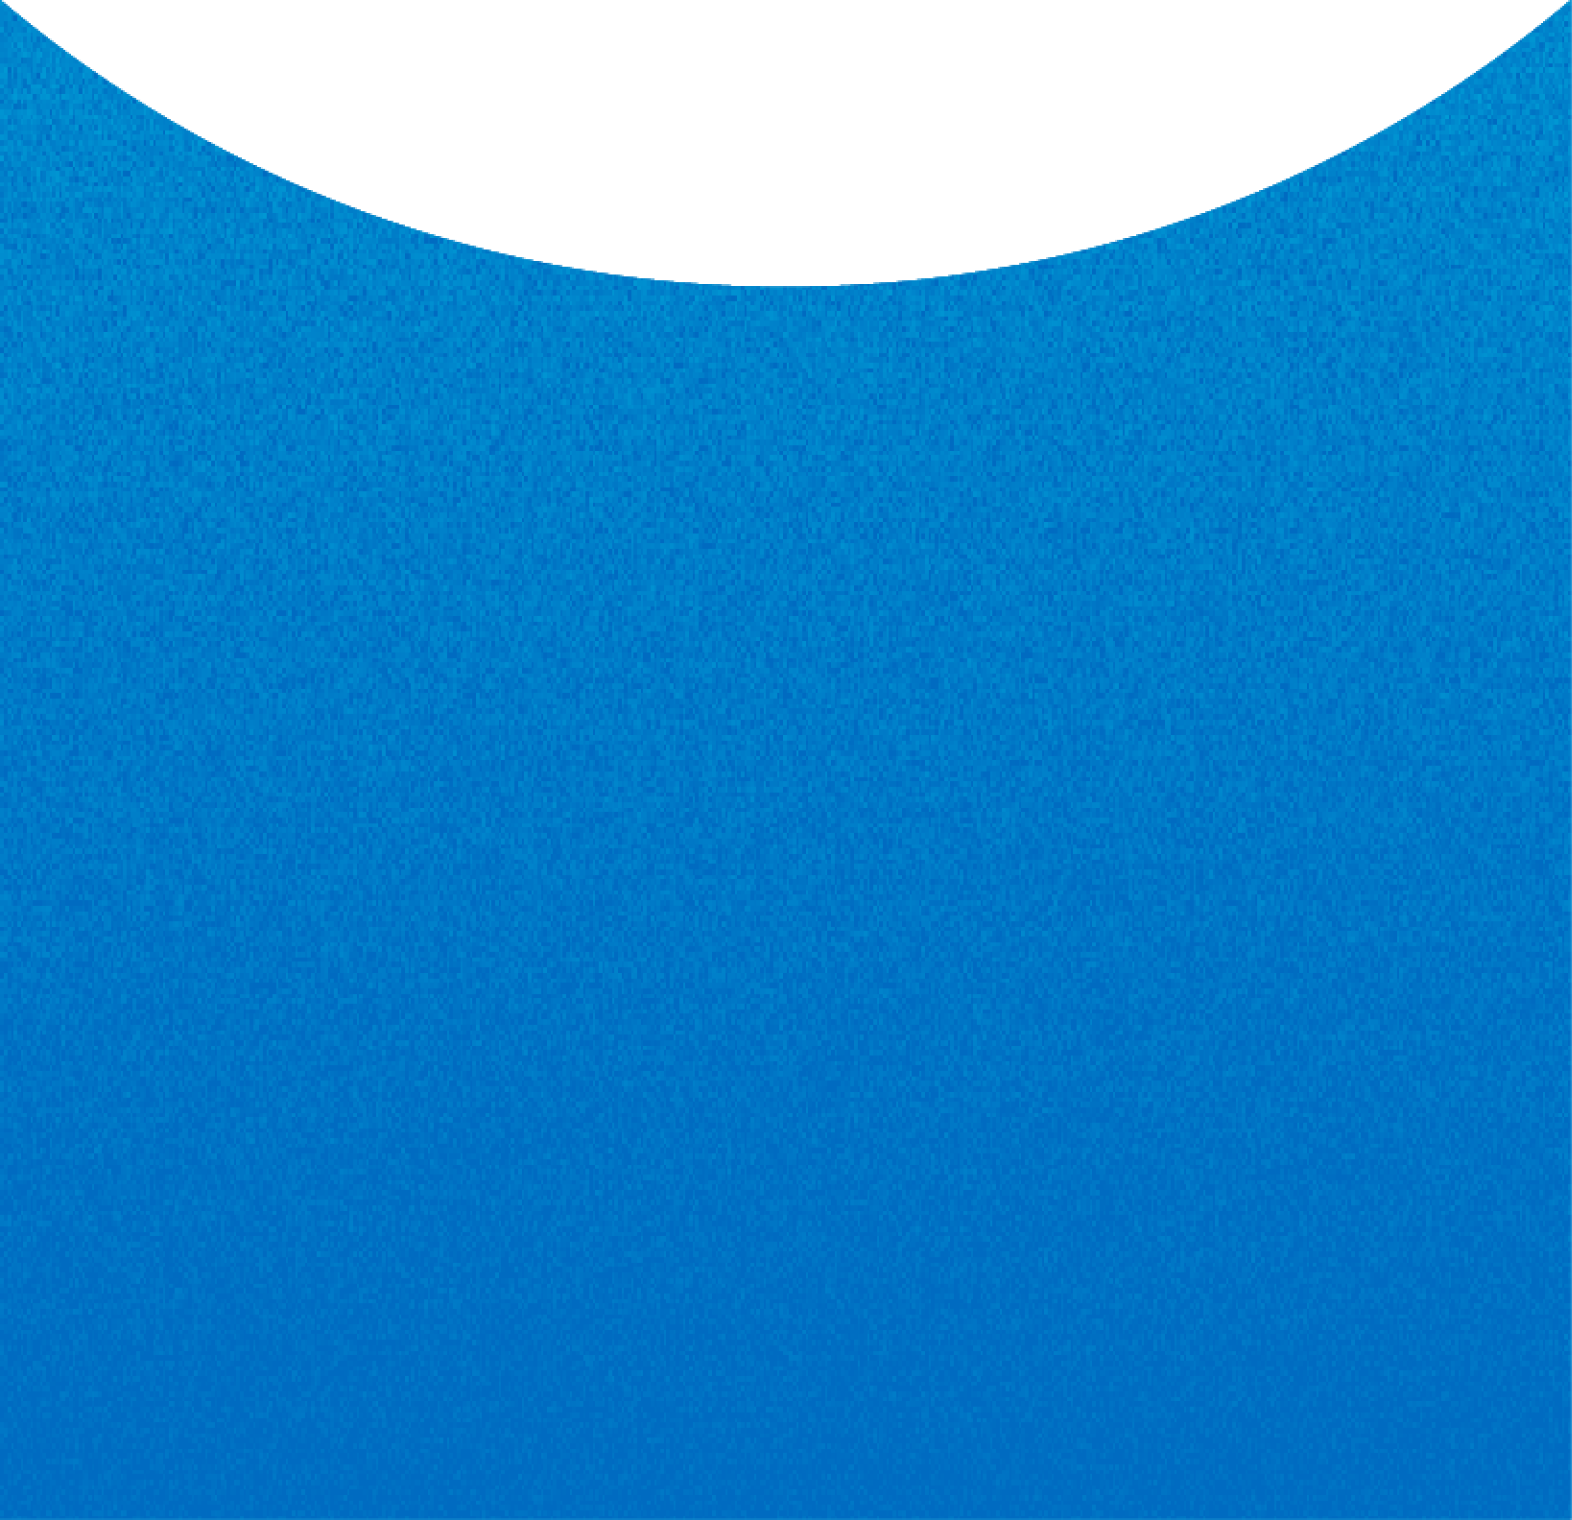
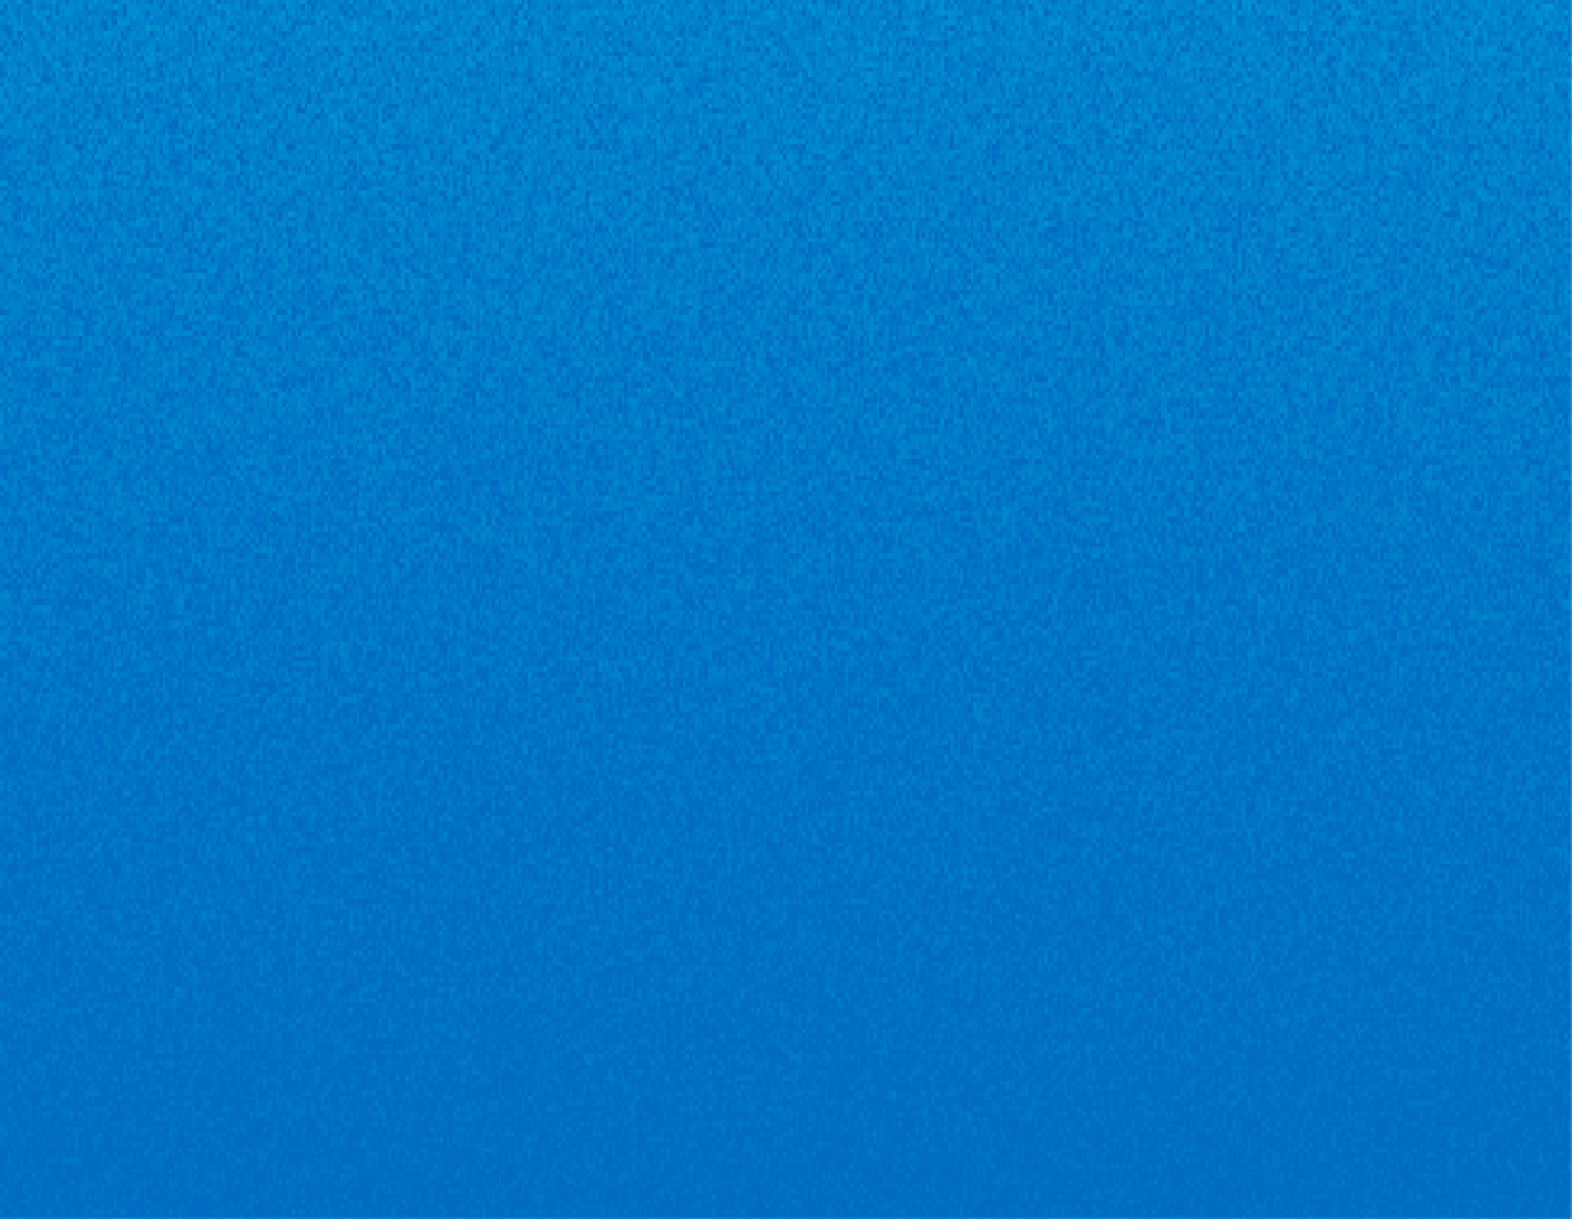
切

Changed region(s): [[0.0, 0.0, 0.9975, 0.2182]]

diff --git a/gold/css/style.css b/gold/css/style.css
@@ -289,44 +289,55 @@ body {
 }
 .TPUF-stamp-container .m-one {
   position: relative;
-  min-height: calc(100vh - 320px);
+  min-height: calc(100vh - 283px);
 }
 
 .login-bg {
   background: url(../images/bg_login_00.png) center top no-repeat;
   background-size: contain;
 }
-
-@media all and (max-width: 790px) {
-  .login-bg min-height {
-    min-height: calc(100vh - 406px);
-  }
-  .event-content-top {
+.login-bg .m-one::after {
+  content: "";
+  position: absolute;
+  left: 0;
+  bottom: -1px;
+  width: 100%;
+  background: url(../images/blue-top.png) bottom center no-repeat;
+  background-size: cover;
+  height: 375px;
+}
+@media all and (max-width: 600px) {
+  .login-bg .m-one::after {
     background-size: contain;
   }
-  .event-content-top .right_icon {
+}
+@media all and (max-width: 790px) {
+  .login-bg .login-bg min-height {
+    min-height: calc(100vh - 406px);
+  }
+  .login-bg .event-content-top {
+    background-size: contain;
+  }
+  .login-bg .event-content-top .right_icon {
     top: -40px;
     width: 120px;
     right: 50px;
   }
-  .event-content-top .inputBox input {
+  .login-bg .event-content-top .inputBox input {
     font-size: 20px;
     padding: 15px 20px;
     max-width: calc(100% - 85px);
   }
-  .event-content-top .inputBox button {
+  .login-bg .event-content-top .inputBox button {
     font-size: 16px;
     padding: 10px;
     min-width: 80px;
   }
-  .event-content-top .inputBox .text {
+  .login-bg .event-content-top .inputBox .text {
     padding: 6px 15px;
     font-size: 13px;
     left: 25px;
   }
-}
-.bg_blue_img {
-  background: url(../images/blue-bg.png) center top no-repeat;
 }
 
 .bg_color_blue {
@@ -339,7 +350,6 @@ body {
 
 .login_box {
   padding: 20px;
-  padding-top: 80px;
   text-align: center;
 }
 .login_box .top-title {
@@ -348,16 +358,6 @@ body {
   color: #fff;
   font-weight: bold;
   padding: 10px 0;
-}
-.login_box .top-title span {
-  padding: 10px 20px;
-  border-radius: 10px;
-  background: url(../images/blue-bg.png) center bottom;
-}
-@media all and (max-width: 450px) {
-  .login_box .top-title span {
-    background: none;
-  }
 }
 .login_box .fillin {
   width: 100%;

diff --git a/gold/css/style.scss b/gold/css/style.scss
@@ -80,12 +80,28 @@ body{
   }
   .m-one{
     position: relative;
-    min-height: calc(100vh - 320px); 
+    min-height: calc(100vh - 283px); 
   }
 }
 .login-bg{
     background: url(../images/bg_login_00.png) center top no-repeat;
     background-size: contain;
+  .m-one{
+    &::after{
+      content: "";
+      position: absolute;
+      left: 0;
+      bottom: -1px;
+      width: 100%;
+      background: url(../images/blue-top.png) bottom center no-repeat;
+      background-size: cover;
+      height: 375px;
+    }
+    @media all and (max-width: 600px) {
+      &::after{
+        background-size: contain;
+      }
+    }
   }
   @media all and (max-width: 790px) {
   .login-bg{
@@ -121,8 +137,6 @@ body{
       }
     }
   }
-.bg_blue_img{
-  background: url(../images/blue-bg.png) center top no-repeat;
 }
 .bg_color_blue{
   background: url(../images/bg-blue.png) top center no-repeat;
@@ -133,7 +147,7 @@ body{
 }
 .login_box{
     padding: 20px;
-    padding-top: 80px;
+    // padding-top: 80px;
     text-align: center;
     .top-title{
       font-size: 28px;
@@ -141,14 +155,6 @@ body{
       color: #fff;
       font-weight: bold;
       padding: 10px 0;
-      span{
-        padding: 10px 20px;
-        border-radius: 10px;
-        background: url(../images/blue-bg.png) center bottom;
-        @media all and (max-width: 450px) {
-          background: none;
-        }
-      }
       
     }
     .fillin{
